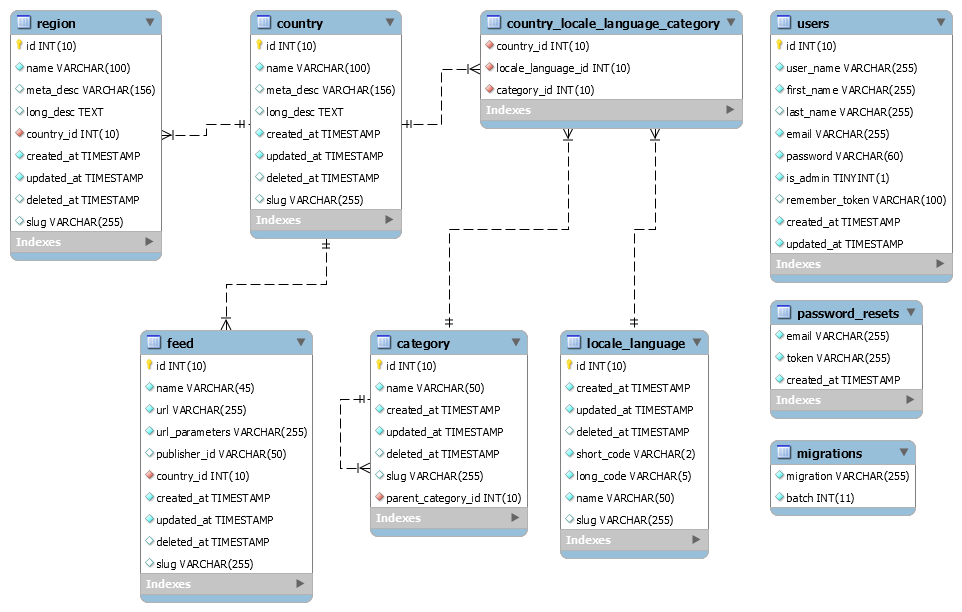
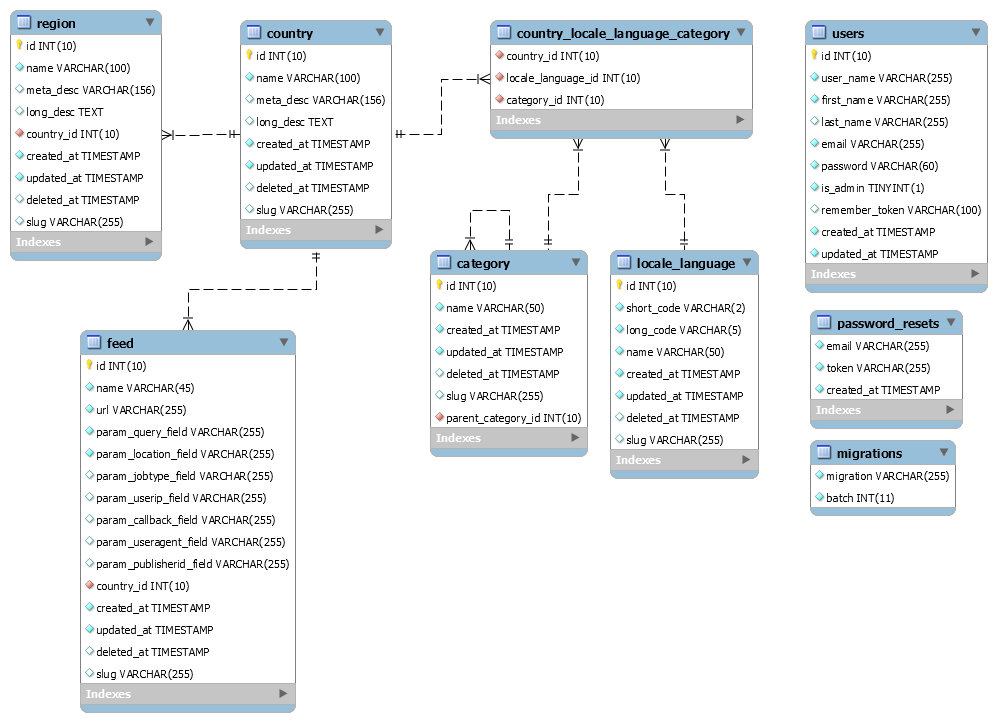
Added feed url parameters to Feed table, updated planning db schema.

Changed region(s): [[0.2183, 0.0, 0.9979, 0.9314], [0.0, 0.0, 0.343, 0.9935]]

diff --git a/build/database/migrations/2016_01_05_065703_add_param_fields_to_feed_table.php b/build/database/migrations/2016_01_05_065703_add_param_fields_to_feed_table.php
@@ -1,0 +1,54 @@
+<?php
+
+use Illuminate\Database\Schema\Blueprint;
+use Illuminate\Database\Migrations\Migration;
+use Illuminate\Support\Facades\Schema;
+
+/**
+ * Class AddParamFieldsToFeedTable
+ */
+class AddParamFieldsToFeedTable extends Migration
+{
+    /**
+     * Run the migrations.
+     *
+     * @return void
+     */
+    public function up()
+    {
+        Schema::table('feed', function(Blueprint $table)
+        {
+            $table->string('param_query_field')->after('url');
+            $table->string('param_location_field')->after('param_query_field');
+            $table->string('param_jobtype_field')->nullable()->after('param_location_field');
+            $table->string('param_userip_field')->nullable()->after('param_jobtype_field');
+            $table->string('param_callback_field')->nullable()->after('param_userip_field');
+            $table->string('param_useragent_field')->nullable()->after('param_callback_field');
+            $table->string('param_publisherid_field')->nullable()->after('param_useragent_field');
+
+            $table->dropColumn('url_parameters');
+            $table->dropColumn('publisher_id');
+        });
+    }
+
+    /**
+     * Reverse the migrations.
+     *
+     * @return void
+     */
+    public function down()
+    {
+        Schema::table('feed', function (Blueprint $table) {
+            $table->dropColumn('param_query_field');
+            $table->dropColumn('param_location_field');
+            $table->dropColumn('param_jobtype_field');
+            $table->dropColumn('param_userip_field');
+            $table->dropColumn('param_callback_field');
+            $table->dropColumn('param_useragent_field');
+            $table->dropColumn('param_publisherid_field');
+
+            $table->string('url_parameters', 255);
+            $table->string('publisher_id', 50)->nullable();
+        });
+    }
+}
